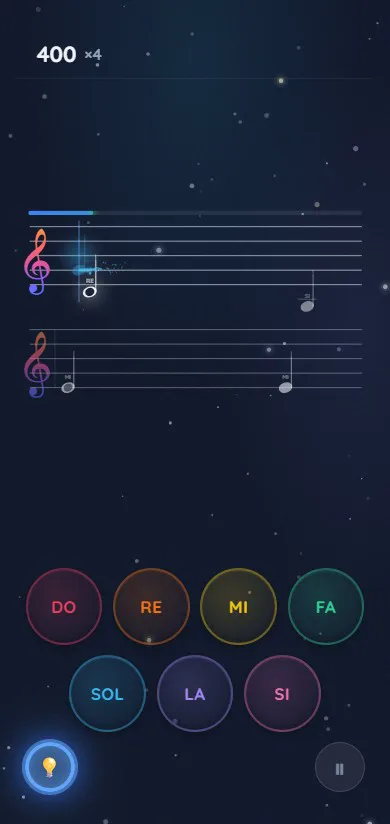
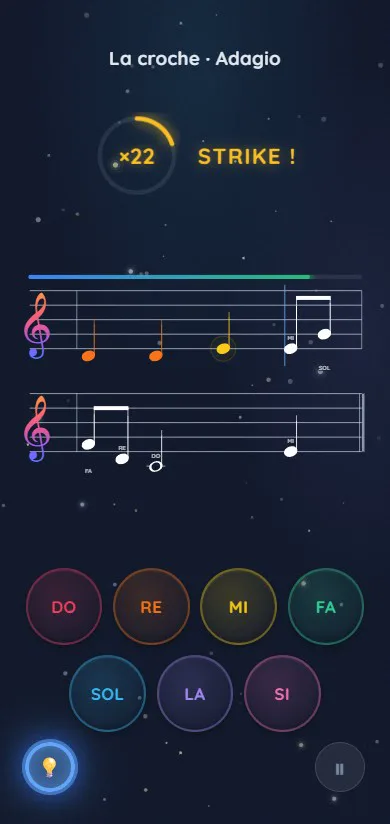
Vidéo de gameplay : Adagio des croches de la méthode (défilement vertical) + accueil démo à bouton unique

diff --git a/demo/app/index.html b/demo/app/index.html
@@ -6,7 +6,7 @@
     <meta name="viewport" content="width=device-width, initial-scale=1.0, viewport-fit=cover" />
     <title>Luminote</title>
     <style>/* démo intégrée : pas de barres de scroll visibles */ html,body{overflow:hidden} *{scrollbar-width:none} *::-webkit-scrollbar{display:none}</style>
-    <script type="module" crossorigin src="./assets/index-9aHxskqg.js"></script>
+    <script type="module" crossorigin src="./assets/index-CDYbO6Qs.js"></script>
     <link rel="stylesheet" crossorigin href="./assets/index-0i04YI5d.css">
   </head>
   <body>